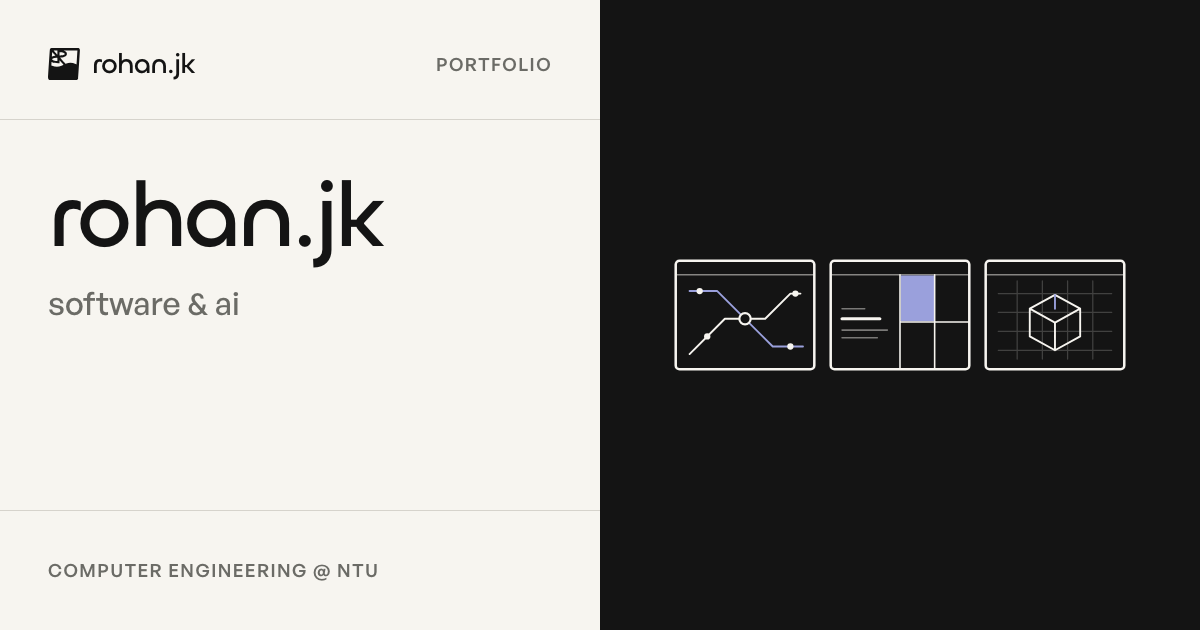
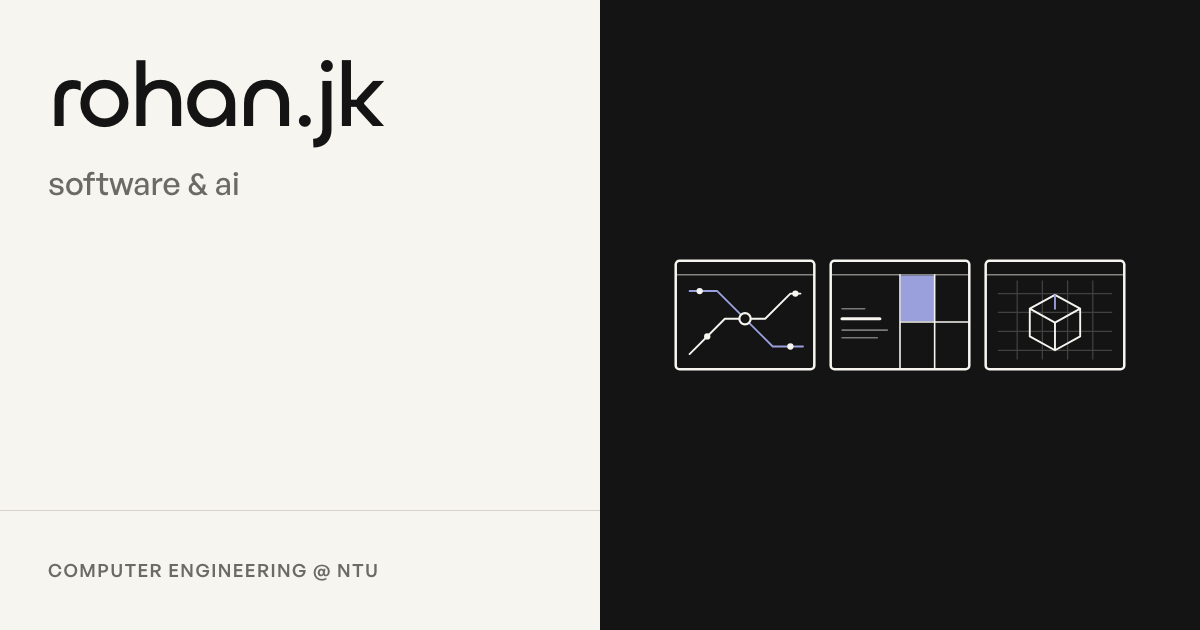
og: section share cards for projects, music and about; the site card drops its header row
Claude-Session: https://claude.ai/code/session_019PEm3fZXsCwCenNmNHDbNJ

diff --git a/src/styles/swiss-og.css b/src/styles/swiss-og.css
@@ -24,5 +24,14 @@ html.sw-og .og-art > svg { display: block; width: 100%; height: 100%; padding: v
 /* is-hover selects the finished geometry. Keep no-preference so the drawing
    selectors apply, but disable every animation and transition for capture. */
 html.sw-og *, html.sw-og *::before, html.sw-og *::after { transition: none !important; animation: none !important; }
+/* The site card's wordmark is the brand, so it drops the header row. */
+html.sw-og .og-site .og-paper { grid-template-rows: minmax(0, 1fr) 7.5rem; }
 html.sw-og .og-site .og-wordmark { font: 500 5.75rem/1.05 var(--font-display); letter-spacing: var(--track-display); }
 html.sw-og .og-site .og-title { font-size: 2rem; }
+html.sw-og .og-art.og-mosaic { grid-template: repeat(2, minmax(0, 1fr)) / repeat(2, minmax(0, 1fr)); }
+html.sw-og .og-mosaic-cell { width: 100%; height: 100%; min-width: 0; min-height: 0; }
+html.sw-og .og-mosaic-cell:nth-child(odd) { border-right: 1px solid color-mix(in srgb, var(--paper) 22%, transparent); }
+html.sw-og .og-mosaic-cell:nth-child(-n+2) { border-bottom: 1px solid color-mix(in srgb, var(--paper) 22%, transparent); }
+html.sw-og .og-mosaic-cell > svg { display: block; width: 100%; height: 100%; padding: 1.5rem; }
+html.sw-og .og-art > .og-music-viz { padding: 0; }
+html.sw-og .og-portrait { display: block; width: 100%; height: 100%; object-fit: cover; object-position: center 60%; }

diff --git a/src/data/section-og.ts b/src/data/section-og.ts
@@ -1,0 +1,38 @@
+// Import-free so the screenshot hash reader can transpile this same data.
+export interface SectionOgCard {
+  section: 'projects' | 'music' | 'about';
+  slug: string;
+  headline: string;
+  title: string;
+  metadata: string[];
+  drawings: string[];
+  photo?: string;
+}
+
+export function sectionOgCards(
+  projects: { id: string; data: { order: number; unlisted?: boolean } }[],
+  songs: { artist: string }[],
+  tagline: string,
+): SectionOgCard[] {
+  const listed = projects.filter((project) => !project.data.unlisted)
+    .sort((a, b) => a.data.order - b.data.order || a.id.localeCompare(b.id));
+  return [
+    {
+      section: 'projects', slug: 'section-projects', headline: 'projects',
+      title: 'software, AI, audio and data builds',
+      metadata: [`${listed.length} builds`, 'software · AI · audio'],
+      drawings: listed.slice(0, 4).map((project) => project.id),
+    },
+    {
+      section: 'music', slug: 'section-music', headline: 'music',
+      title: 'written, produced, recorded, mixed and mastered at home',
+      metadata: [songs[0]?.artist ?? 'rohan.jk', `${songs.length} releases`],
+      drawings: [],
+    },
+    {
+      section: 'about', slug: 'section-about', headline: 'Rohan Kulshrestha',
+      title: tagline, metadata: ['software & AI', 'music'], drawings: [],
+      photo: '/assets/images/profile.webp',
+    },
+  ];
+}

diff --git a/src/lib/project-og.test.ts b/src/lib/project-og.test.ts
@@ -16,6 +16,14 @@ describe('projectOgImage', () => {
     expect(projectOgImage('missing-project')).toBeUndefined();
   });
 
+  it('includes all section templates in the same stale-image guard', () => {
+    expect(cards.filter(({ slug }) => slug.startsWith('section-')).map(({ slug, route }) => [slug, route])).toEqual([
+      ['section-projects', '/og/section/projects'],
+      ['section-music', '/og/section/music'],
+      ['section-about', '/og/section/about'],
+    ]);
+  });
+
   it.each(cards)('$slug has a current, 1200×630 share card', async ({ slug, hash }) => {
     let png: Buffer;
     let manifest: Record<string, string>;

diff --git a/AGENTS.md b/AGENTS.md
@@ -85,13 +85,22 @@ and the name.
 ## Share images
 
 Classic/transit use committed 1200×630 Swiss PNGs in
-`public/assets/images/og/<slug>.png`; non-project pages use
-`public/assets/images/og.png`. After adding a project or changing its title,
+`public/assets/images/og/<slug>.png`. Projects, music and about (classic and
+transit) use `public/assets/images/og/section-{projects,music,about}.png`;
+home keeps `public/assets/images/og.png`. After adding a project or changing its title,
 wordmark, award, first three technologies or drawing, run `npm run og`.
-For one card use `npm run og -- --only <slug>` (`site` selects the default).
+For one card use `npm run og -- --only <slug>` (`site` selects the default; `section-projects`, `section-music` and
+`section-about` select the section cards).
 This is manual only: build never generates images and no content is rewritten.
 The script starts/reuses Astro at localhost:4361 (`OG_BASE_URL` overrides),
-waits for real fonts, and captures every project, including unlisted ones.
+waits for real fonts and decoded photos, and captures every project, including
+unlisted ones, plus the home and section cards. Section text lives in
+`src/data/section-og.ts`: the projects mosaic uses the first four listed builds
+by order, music derives its release count from `src/data/music.ts` and uses
+`SwissOgMusic.astro` for a static scope/VU illustration, and about uses the
+profile photo cropped at `center 60%` like the about page. Their text, selected
+drawings/framing, illustration and photo bytes are covered by the same stale
+guard. Regenerate after changes to these inputs or listed project ordering/count.
 
 The card is an exact 600/600 split: paper cells on the left and a full-bleed
 ink drawing panel on the right. The left rows are 120/390/120px with 48px
@@ -111,7 +120,8 @@ Commit the reviewed PNGs together with `public/assets/images/og/manifest.json`.
 hashes (including the template, shared CSS, framing, logo and font bytes).
 
 Tweak `src/components/SwissOgCard.astro` and `src/styles/swiss-og.css`, then
-preview `/og/<slug>` or `/og/site` at 1200×630 and regenerate. These standalone
+preview `/og/<slug>`, `/og/site` or `/og/section/{projects,music,about}` at
+1200×630 and regenerate. These standalone
 routes are noindex, unlinked and excluded by the sitemap allowlist. Drawings
 use `drawingFor`/`headerViewBoxFor`, `.swiss-card.is-hover`, no transitions,
 and the no-preference media state so all final drawing details are present.
